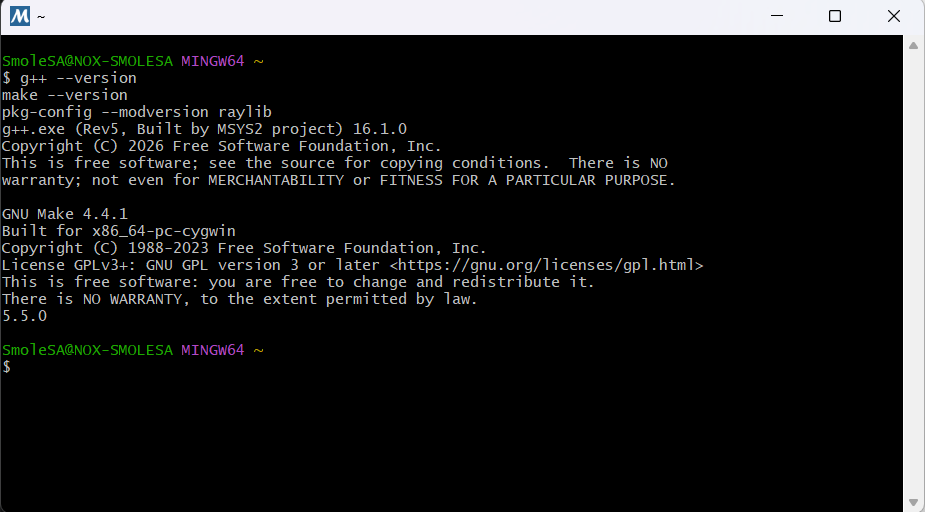
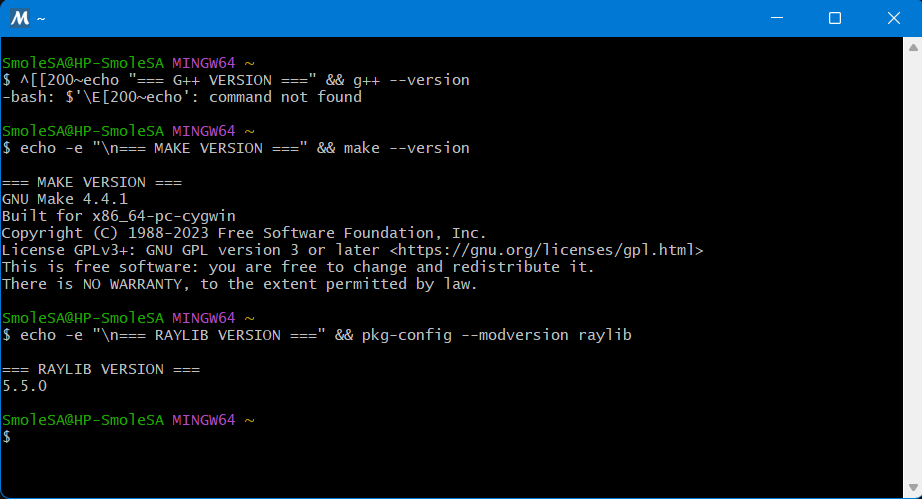
Update .gitignore and improve installation documentation formatting

Changed region(s): [[0.0, 0.0, 1.0, 1.0], [0.0, 0.8116, 0.2733, 0.9018], [0.3644, 0.6613, 0.6985, 0.6914]]

diff --git a/documentos/como_instalar_el_entordo_de_desarrollo.md b/documentos/como_instalar_el_entordo_de_desarrollo.md
@@ -17,7 +17,7 @@ Software necesario:
 
 Descargar e instalar Visual Studio Code desde:
 
-https://code.visualstudio.com/
+<https://code.visualstudio.com/>
 
 ![alt text](img/vscode.png)
 
@@ -27,13 +27,13 @@ Durante la instalación, se recomienda marcar:
 - Register Code as editor
 - Add "Open with Code"
 
-## Comprobar instalación:
+## Comprobar instalación
 
 1. Para abrir un terminal PowerShell, pulsamos la tecla de Windows (o pulsamos en inicio) y escribimos power.
 
 ![alt text](img/AbrirPowerWindows.png)
 
-2. escribiendo esto en la terminal: 
+1. escribiendo esto en la terminal:
 
 ```powerShell
 code
@@ -41,7 +41,7 @@ code
 
 ![imagen del terminal PowerShell](img/powerShell.png)
 
-3. Si está instalado, se abrirá el programa Visual Studio Code.
+1. Si está instalado, se abrirá el programa Visual Studio Code.
 
 ![alt text](img/VsCodeOpen.png)
 ---
@@ -52,7 +52,7 @@ MSYS2 nos permitirá instalar el compilador de C++.
 
 Descargar desde:
 
-https://github.com/msys2/msys2-installer/releases/download/2026-06-11/msys2-x86_64-20260611.exe
+<https://github.com/msys2/msys2-installer/releases/download/2026-06-11/msys2-x86_64-20260611.exe>
 
 ![alt text](img/MSYS2.png)
 
@@ -72,13 +72,12 @@ Para abrir MSYS2 MINGW64, pulsamos la tecla de Windows (o pulsamos en inicio) y 
 
 ![alt text](img/MSYS2_MINGW64.png)
 
-
 **Ejecutar**:
 
 ![alt text](img/MSYS2_MINGW64_Terminal.png)
 
 ```bash
-pacman -Syu
+pacman -Syu --noconfirm
 ```
 
 Puede pedir confirmaciones, escribimos "y" y pulsamos enter. Puede pedir cerrar la terminal y volver a abrirla.
@@ -100,9 +99,9 @@ hasta que no queden actualizaciones pendientes.
 En la terminal **MSYS2 MINGW64** ejecutar:
 
 ```bash
-pacman -S mingw-w64-x86_64-toolchain
-pacman -S make
-pacman -S mingw-w64-x86_64-raylib
+pacman -S --noconfirm --needed mingw-w64-x86_64-toolchain
+pacman -S --noconfirm --needed make
+pacman -S --noconfirm --needed mingw-w64-x86_64-raylib
 ```
 
 Esto instala:
@@ -114,13 +113,14 @@ Esto instala:
 - Makefile
 - Raylib
 
-## Comprobar instalación :
+## Comprobar instalación
 
 ```bash id="m2"
-g++ --version
-make --version
-pkg-config --modversion raylib
+echo "=== G++ VERSION ===" && g++ --version
+echo -e "\n=== MAKE VERSION ===" && make --version
+echo -e "\n=== RAYLIB VERSION ===" && pkg-config --modversion raylib
 ```
+
 devería aparecer algo como esto:
 
 ![alt text](img/TerminalCorrecto.png)
@@ -129,15 +129,23 @@ devería aparecer algo como esto:
 
 # Paso 5 — Añadir compilador al PATH (opcional pero recomendado)
 
-Añadir al PATH del sistema:
+## Añadir al PATH del sistema
 
 ```text
 C:\msys64\mingw64\bin
 ```
 
-Para comprobar:
+Para ello, abrimos una terminal de **PowerShell** tal y como se muestra a continuación:
 
-Abrir CMD o PowerShell y ejecutar:
+Y pegamos:
+
+```powershell
+[Environment]::SetEnvironmentVariable("Path", [Environment]::GetEnvironmentVariable("Path", [EnvironmentVariableTarget]::Machine) + ";C:\msys64\mingw64\bin", [EnvironmentVariableTarget]::Machine)
+```
+
+## Para comprobar
+
+Escribimos en PowerShell:
 
 ```bash
 g++ --version
@@ -152,20 +160,22 @@ Abrir **Visual Studio Code**.
 Ir a extensiones e instalar:
 
 ## C/C++
+
 Extensión oficial de Microsoft:
 
 ![alt text](img/cC++.png)
 
-https://marketplace.visualstudio.com/items?itemName=ms-vscode.cpptools
+<https://marketplace.visualstudio.com/items?itemName=ms-vscode.cpptools>
 
 Opcional:
 
 ## Error Lens
+
 Para visualizar errores directamente en el editor.
 
 ![alt text](<img/Error Lens.png>)
 
-https://marketplace.visualstudio.com/items?itemName=usernamehw.errorlens
+<https://marketplace.visualstudio.com/items?itemName=usernamehw.errorlens>
 
 ---
 
@@ -178,14 +188,12 @@ vamos a [configurar](vscode://settings/terminal.integrated.profiles.windows) y p
 Ahí, añadimos al final el siguiente texto:
 
 ```JSON
-"terminal.integrated.profiles.windows": {
-    "MSYS2 MINGW64": {
-        "path": "C:\\msys64\\usr\\bin\\bash.exe",
-        "args": ["--login", "-i"],
-        "env": {
-            "MSYSTEM": "MINGW64",
-            "CHERE_INVOKING": "1"
-        }
+, "MSYS2 MINGW64": {
+    "path": "C:\\msys64\\usr\\bin\\bash.exe",
+    "args": ["--login", "-i"],
+    "env": {
+        "MSYSTEM": "MINGW64",
+        "CHERE_INVOKING": "1"
     }
 }
 ```
@@ -193,11 +201,17 @@ Ahí, añadimos al final el siguiente texto:
 ![alt text](img/añadirRutaTerminal.png)
 
 Modificamos el terminal por defecto:
+
 ```JSON
 "MSYS2 MINGW64"
 ```
 
 ![alt text](img/CambioNombreTerminalDefecto.png)
+
+```JSON
+,
+    "terminal.integrated.defaultProfile.windows": "MSYS2 MINGW64"
+```
 
 # Paso 8 — Compilar
 
@@ -212,6 +226,7 @@ make
 ![alt text](img/CompilarConMake.png)
 
 ## Manualmente
+
 Desde terminal :
 
 ```bash
@@ -221,6 +236,7 @@ g++ src/main.cpp -o game -lraylib -lopengl32 -lgdi32 -lwinmm
 ---
 
 # Paso 9 — Ejecutar
+
 ## Con Make
 
 ```bash
@@ -228,6 +244,7 @@ make run
 ```
 
 ## Manualmente
+
 Ejecutar:
 
 ```bash
@@ -245,9 +262,11 @@ Si todo ha ido bien, aparecerá una ventana con:
 ## Error: g++ no reconocido
 
 Causa:
+
 - PATH incorrecto
 
 Solución:
+
 - Añadir:
 
 ```text
@@ -259,6 +278,7 @@ C:\msys64\ucrt64\bin
 ## Error: raylib.h not found
 
 Causa:
+
 - Raylib no instalado
 
 Comprobar: